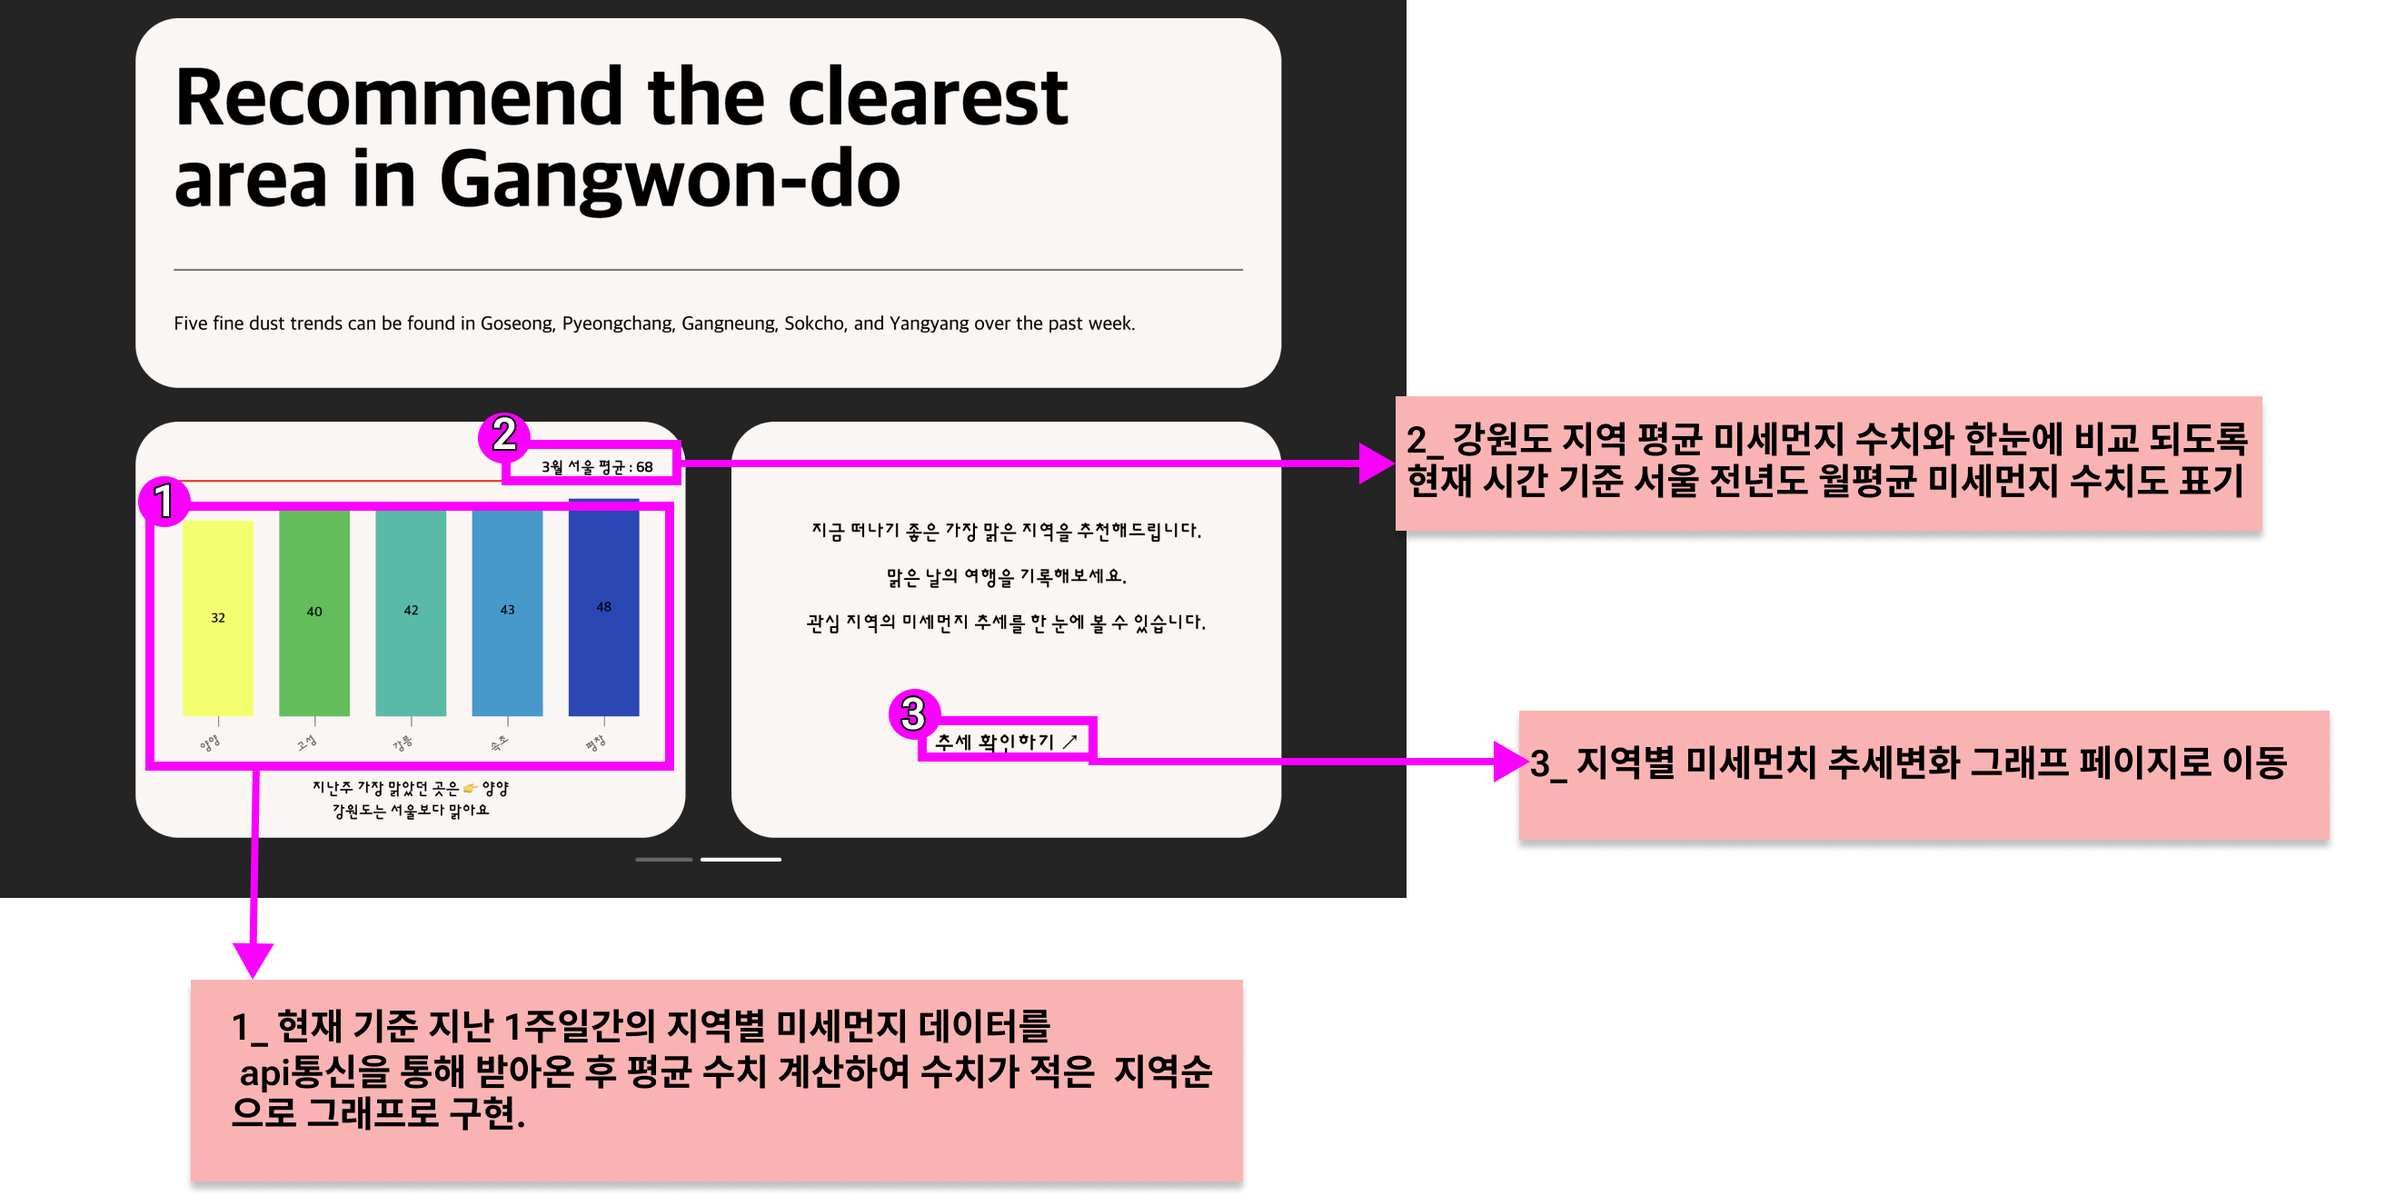
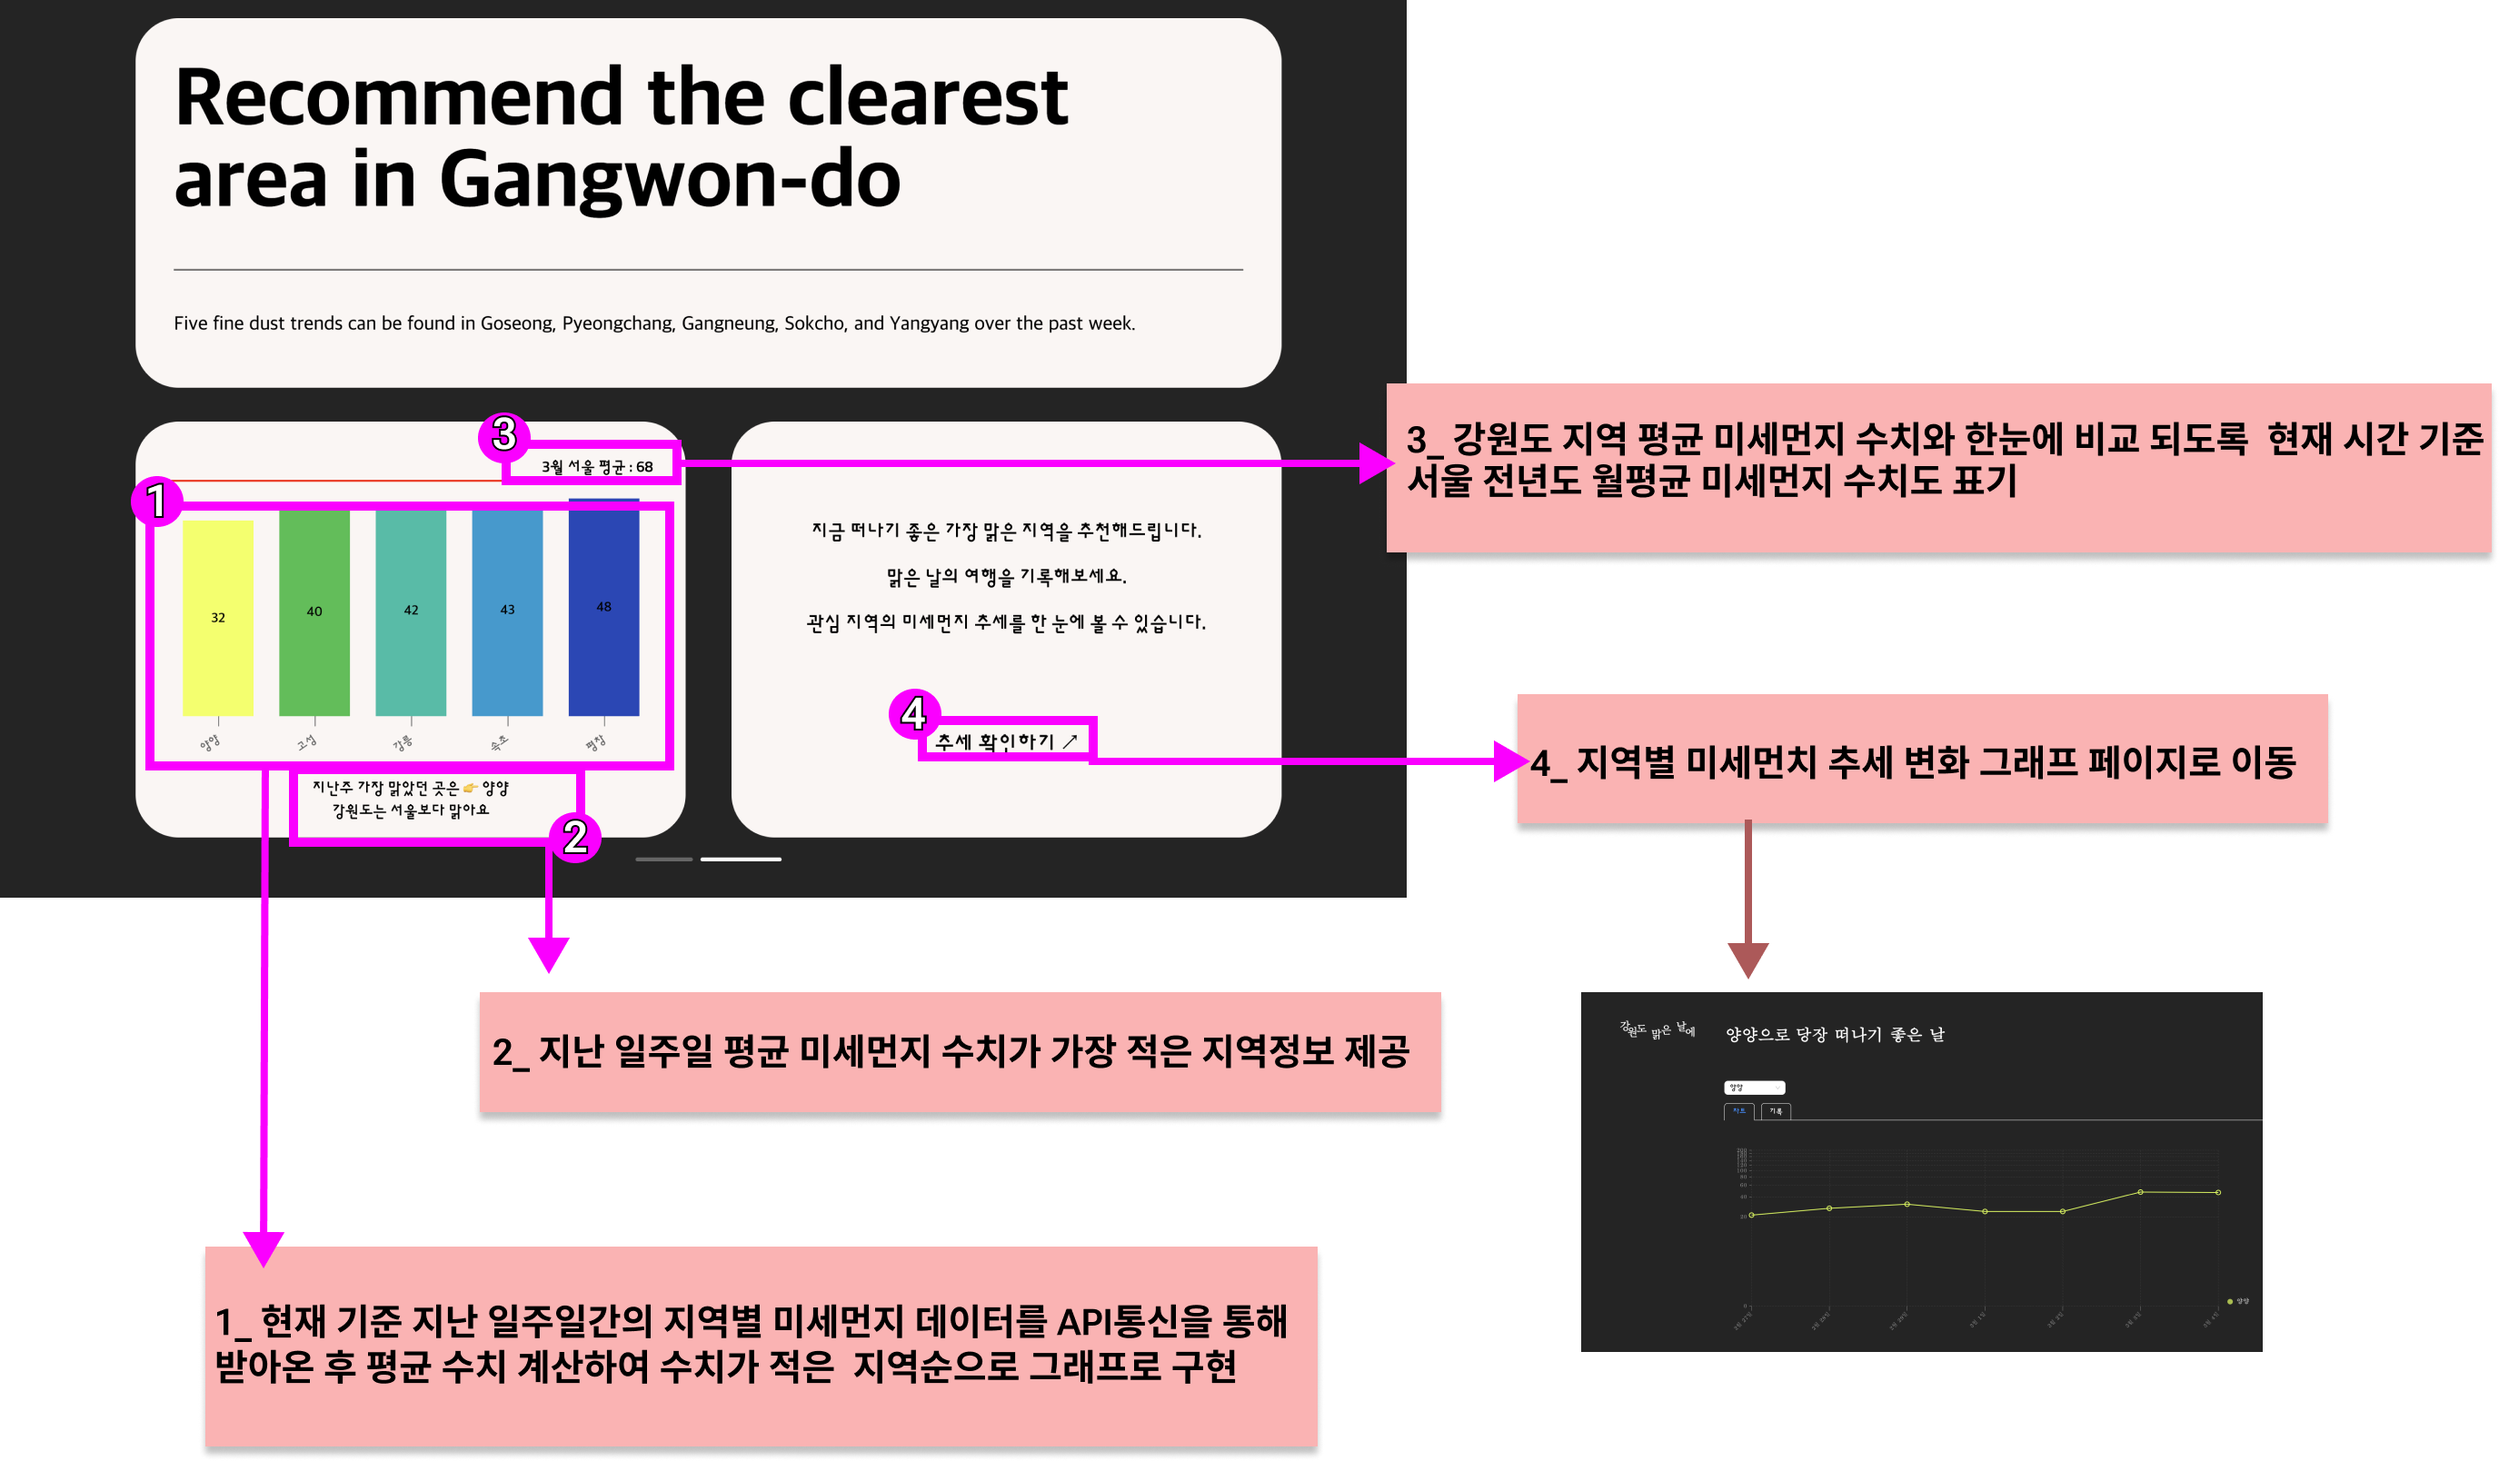
슬라이드 수정

diff --git a/README.md b/README.md
@@ -54,30 +54,67 @@ https://bit.ly/3P7Xbfw
 
 ## 구현 기능
 
-#### 메인 페이지 1 기능
+#### 홈 페이지 1 기능
 
  <br>
   <img src="./introduce/slides/slide1.png">
   <br>
 
-#### 메인 페이지 1 상세 코드
+#### 홈 페이지 1 상세 코드
 
    <br>
   <img src="./introduce/slides/slide2.png">
   <br>
 
-#### 메인 페이지 2 기능
+#### 홈 페이지 2 기능
 
    <br>
   <img src="./introduce/slides/slide3.png">
   <br>
 
-#### 메인 페이지 2 상세 코드
+#### 홈 페이지 2 상세 코드
 
    <br>
   <img src="./introduce/slides/slide4.png">
   <br>
 
+
+#### 메인 - 차트 페이지 기능
+
+   <br>
+  <img src="./introduce/slides/slide5.png">
+  <br>
+
+#### 메인 - 차트 페이지 상세 코드
+
+   <br>
+  <img src="./introduce/slides/slide6.png">
+  <br>
+
+
+#### 메인 - 기록 페이지 기능
+
+   <br>
+  <img src="./introduce/slides/slide7.png">
+  <br>
+
+#### 메인 - 기록 페이지 상세 코드
+
+   <br>
+  <img src="./introduce/slides/slide/8.png">
+  <br>
+
+  #### 기록 작성 페이지 기능
+
+   <br>
+  <img src="./introduce/slides/slide9.png">
+  <br>
+
+#### 기록 수정 페이지 기능
+
+   <br>
+  <img src="./introduce/slides/slide10.png">
+  <br>
 <!--  -->
 
 [js]: ./introduce/icons/javascript.svg
